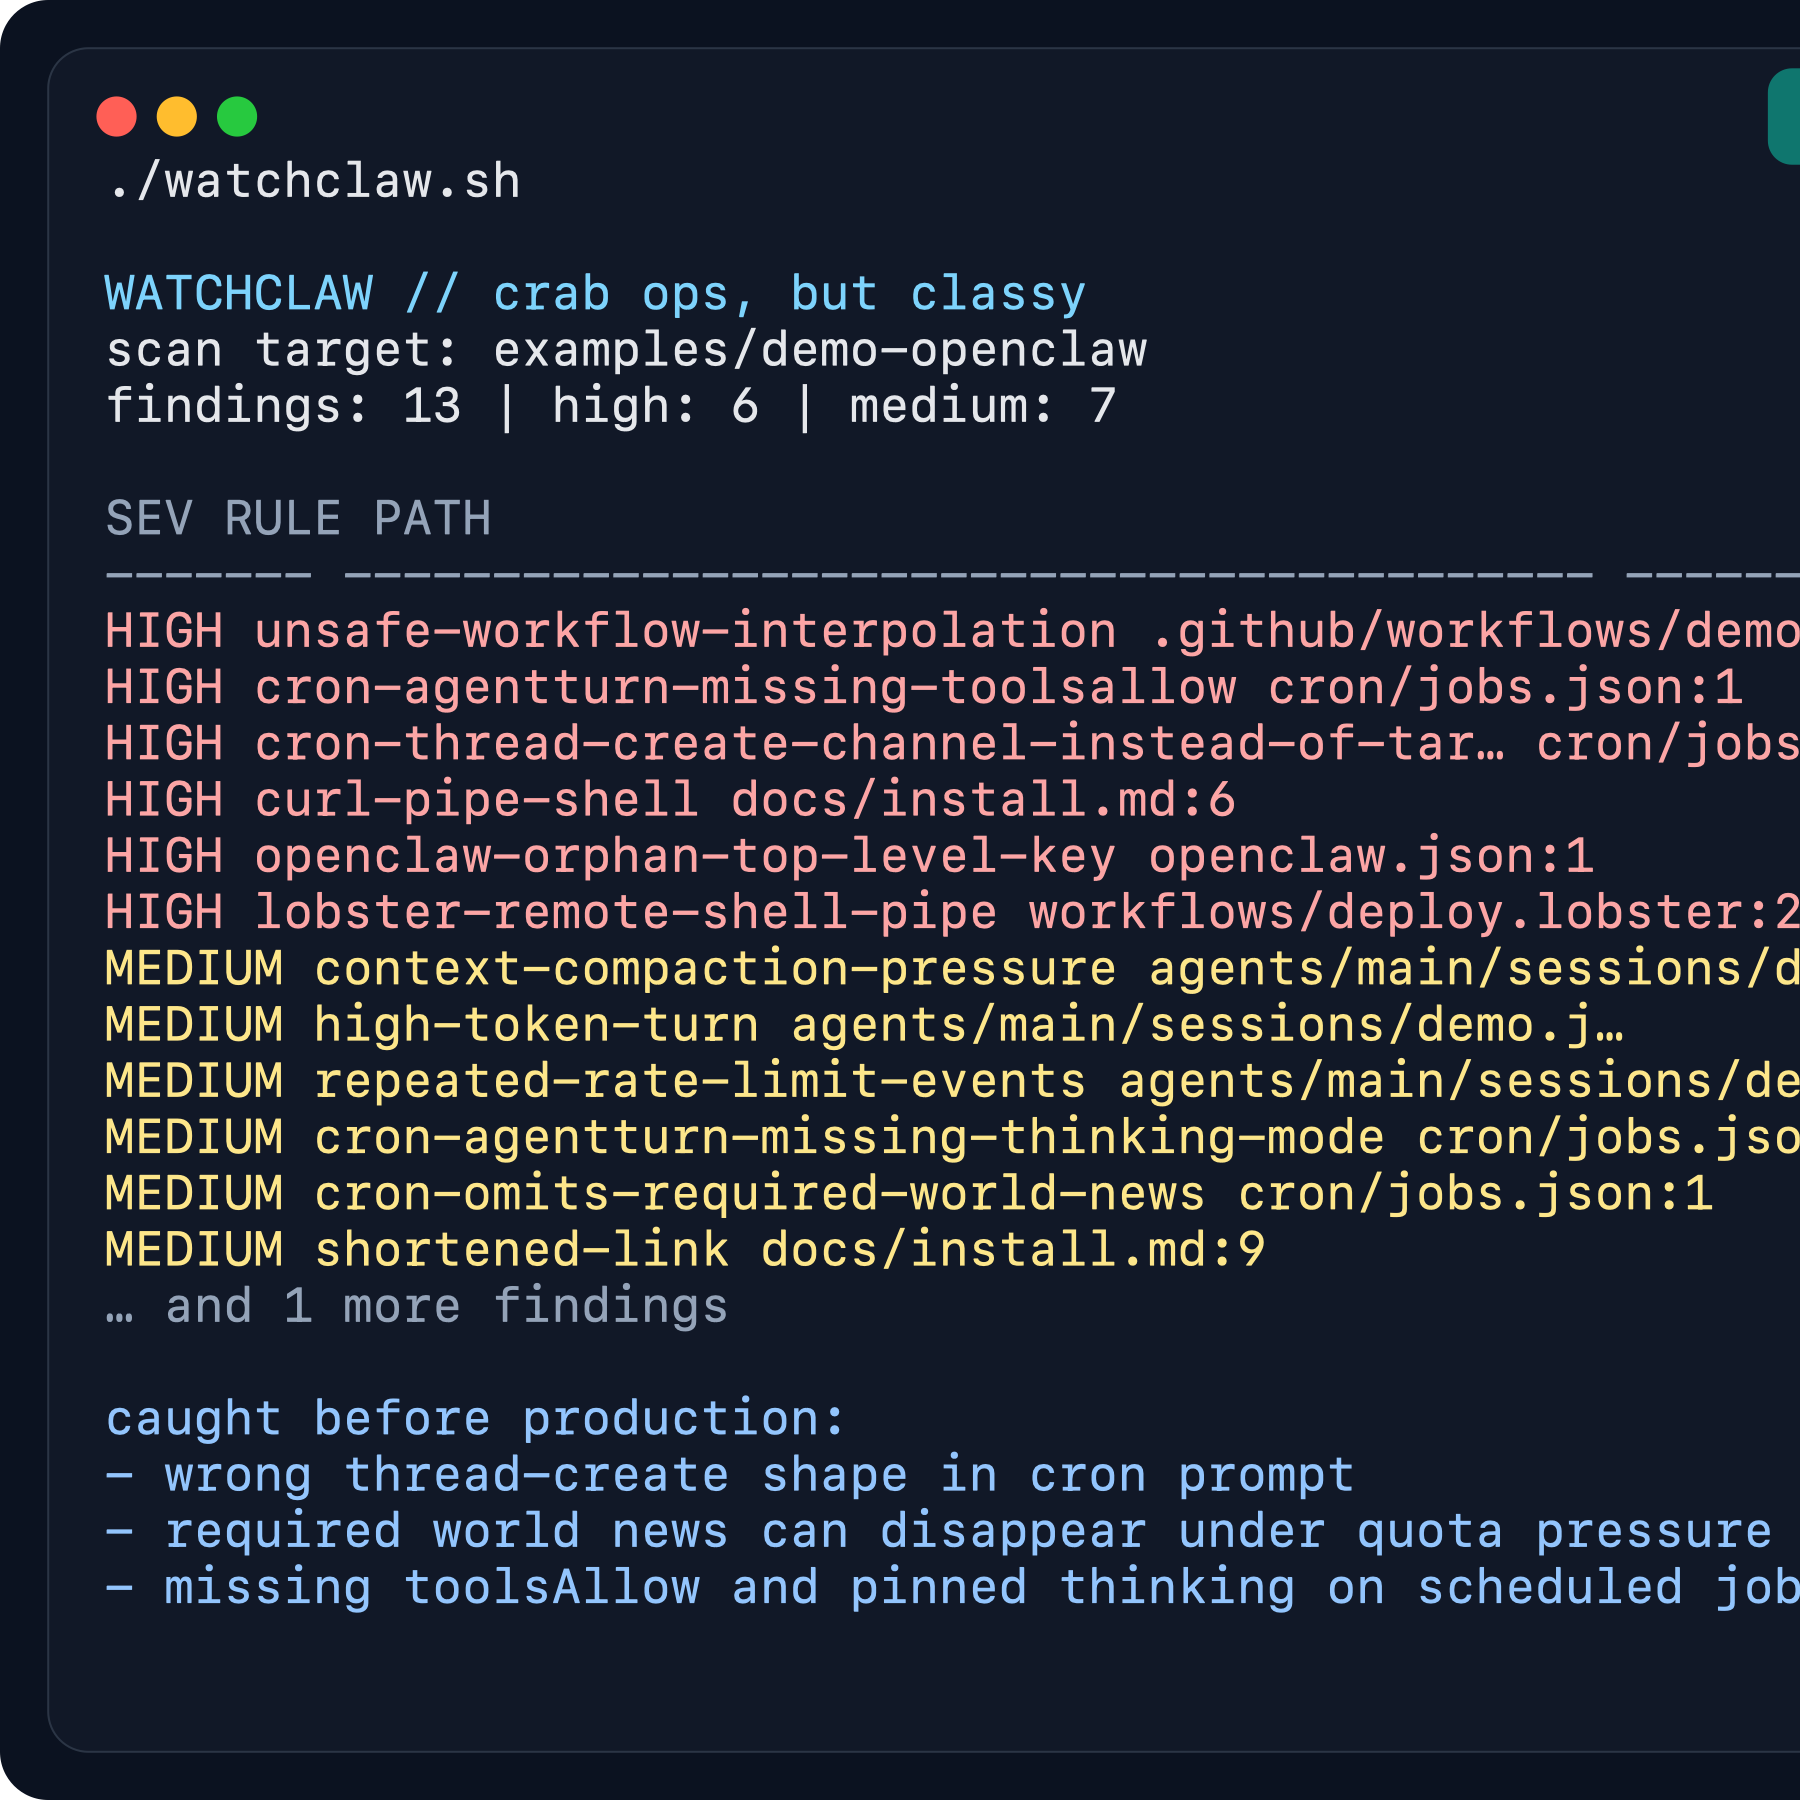
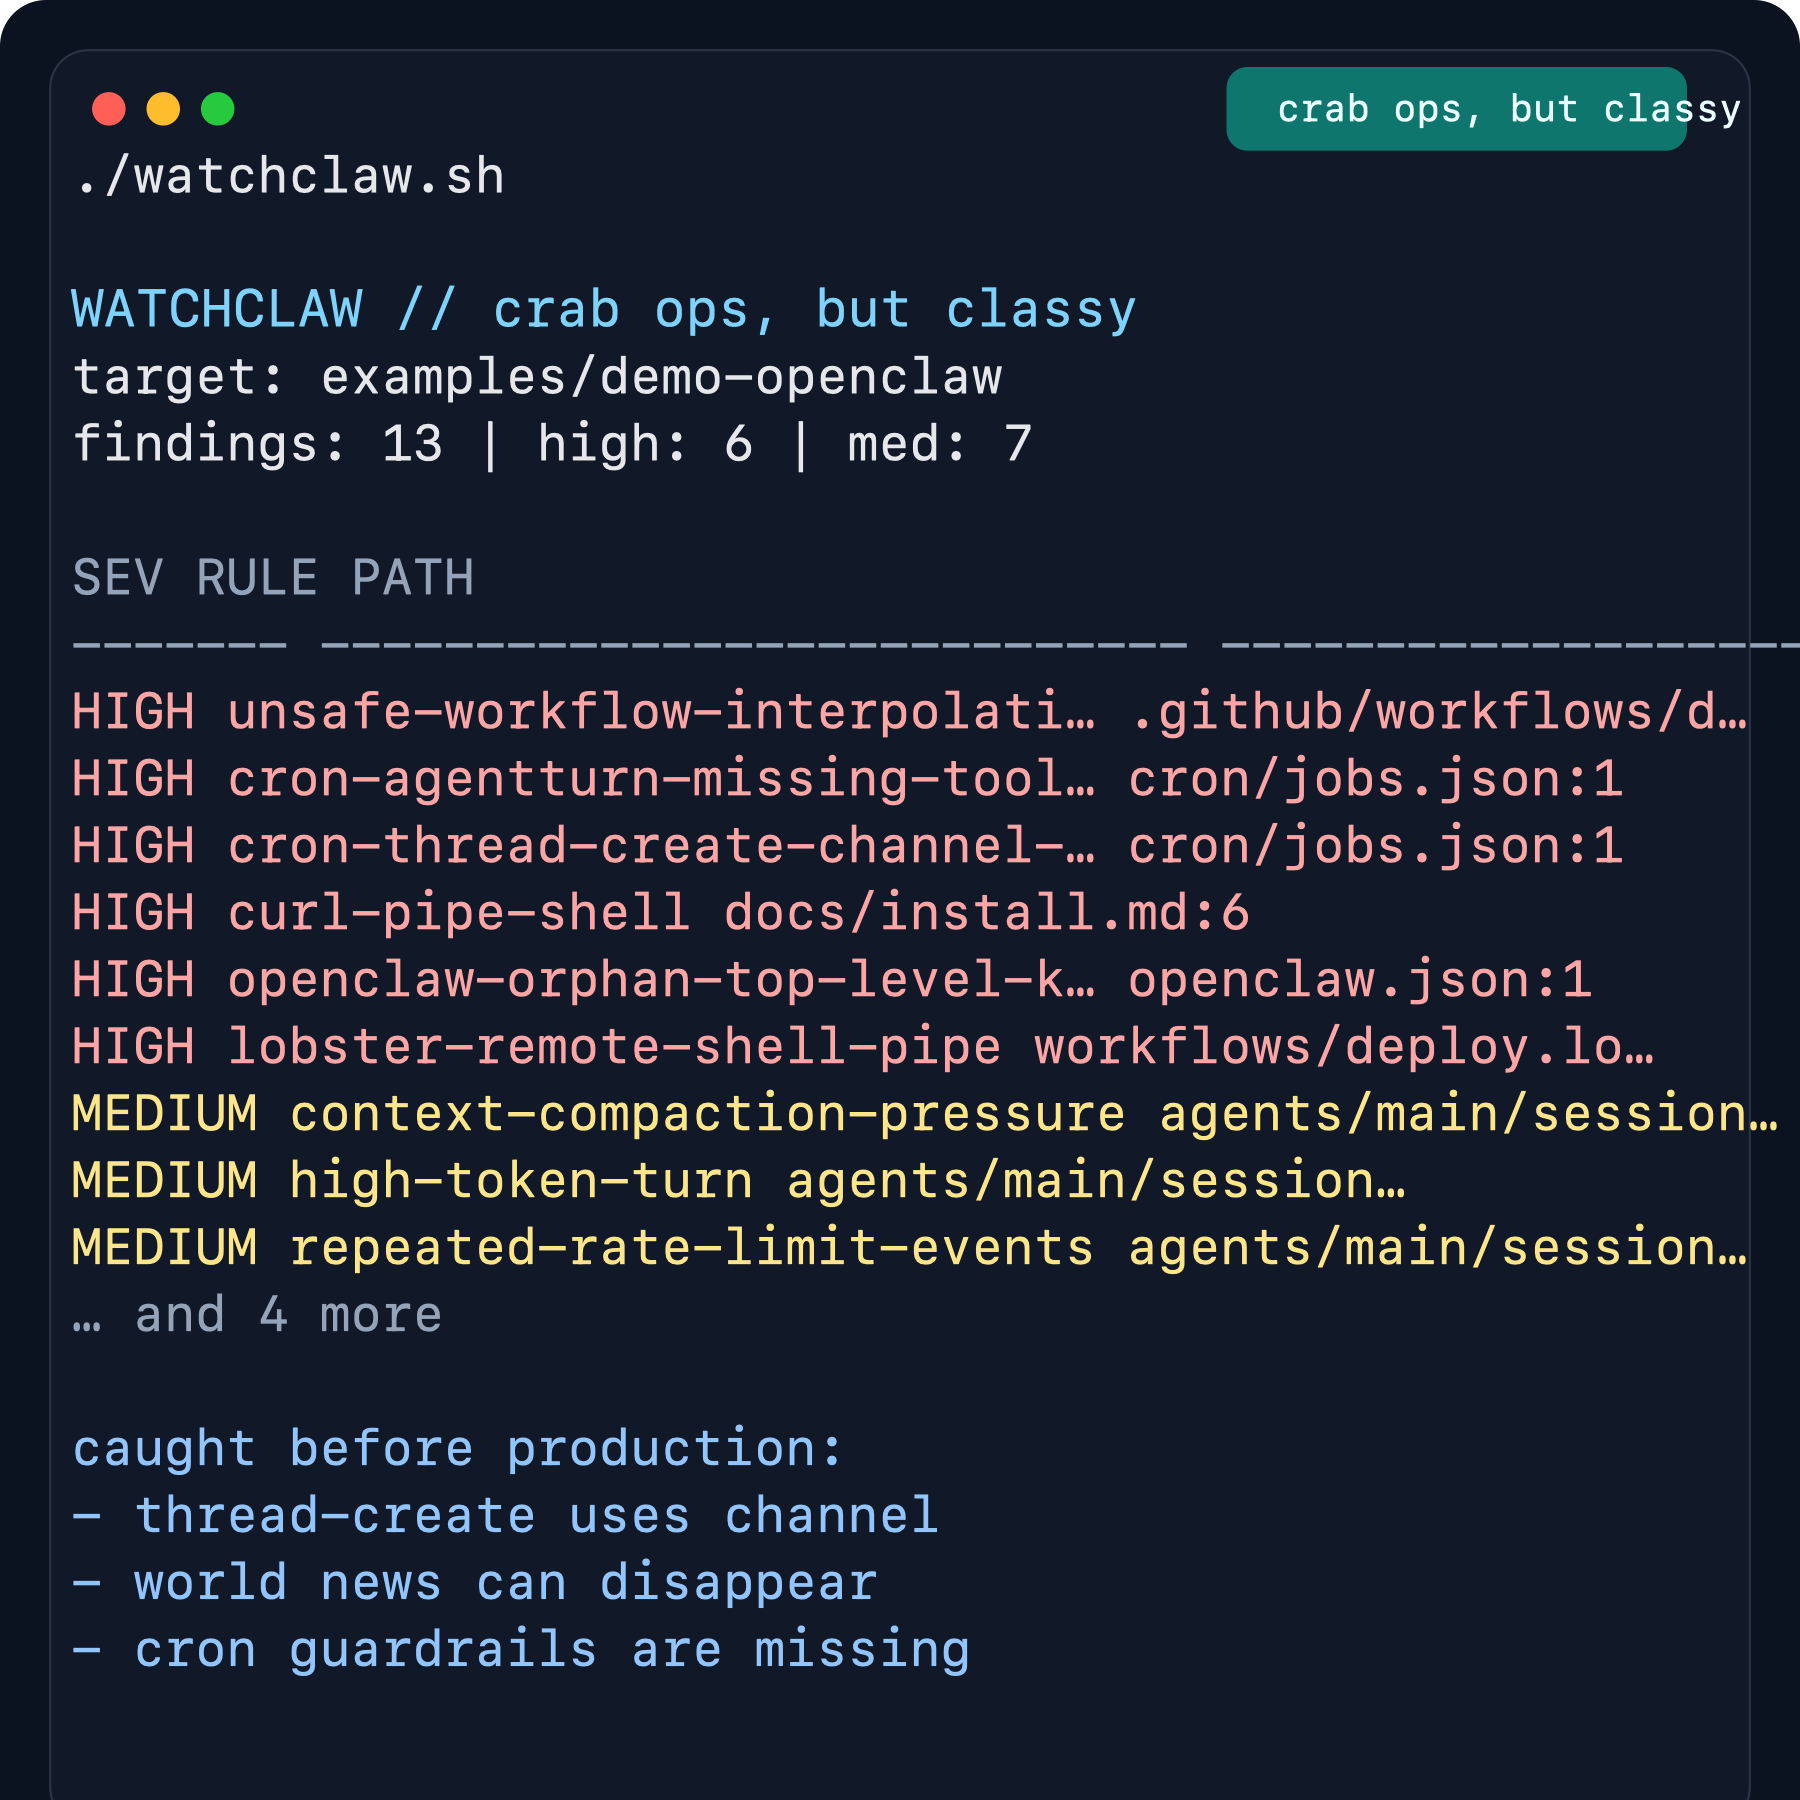
Tighten WatchClaw terminal screenshot width

diff --git a/scripts/render_demo_screenshot.py b/scripts/render_demo_screenshot.py
@@ -10,10 +10,15 @@ DEMO = ROOT / 'examples' / 'demo-openclaw'
 JSON_PATH = DEMO / 'watchclaw-findings.json'
 SVG_PATH = ROOT / 'assets' / 'demo-terminal-live.svg'
 PNG_PATH = ROOT / 'assets' / 'demo-terminal-live.png'
-MAX_ROWS = 12
+MAX_ROWS = 9
 COL1 = 7
-COL2 = 42
-COL3 = 28
+COL2 = 28
+COL3 = 20
+WIDTH = 860
+PANEL_W = 812
+LEFT = 34
+TOP = 92
+LINE_H = 32
 
 
 def ellipsize(text: str, width: int) -> str:
@@ -30,8 +35,8 @@ def build_lines() -> list[str]:
         './watchclaw.sh',
         '',
         'WATCHCLAW // crab ops, but classy',
-        f"scan target: {payload['root']}",
-        f"findings: {len(findings)}  |  high: {high}  |  medium: {medium}",
+        f"target: {payload['root']}",
+        f"findings: {len(findings)} | high: {high} | med: {medium}",
         '',
         f"{'SEV'.ljust(COL1)} {'RULE'.ljust(COL2)} {'PATH'.ljust(COL3)}",
         f"{'-'*COL1} {'-'*COL2} {'-'*COL3}",
@@ -42,46 +47,45 @@ def build_lines() -> list[str]:
         loc = ellipsize(f"{finding['path']}:{finding['line_number']}", COL3)
         lines.append(f"{sev} {rule} {loc}")
     if len(findings) > MAX_ROWS:
-        lines.append(f"… and {len(findings) - MAX_ROWS} more findings")
+        lines.append(f"… and {len(findings) - MAX_ROWS} more")
     lines.extend([
         '',
         'caught before production:',
-        '- wrong thread-create shape in cron prompt',
-        '- required world news can disappear under quota pressure',
-        '- missing toolsAllow and pinned thinking on scheduled jobs',
+        '- thread-create uses channel',
+        '- world news can disappear',
+        '- cron guardrails are missing',
     ])
     return lines
 
 
 def render_svg(lines: list[str]) -> str:
-    width = 1200
-    line_h = 28
-    top = 98
-    height = top + line_h * len(lines) + 70
+    height = TOP + LINE_H * len(lines) + 68
     text_nodes = []
     for i, line in enumerate(lines):
-        y = top + i * line_h
+        y = TOP + i * LINE_H
         fill = '#e5e7eb'
+        size = 24
         if line.startswith('WATCHCLAW //'):
             fill = '#7dd3fc'
+            size = 25
         elif line.startswith('HIGH'):
             fill = '#fca5a5'
         elif line.startswith('MEDIUM'):
             fill = '#fde68a'
-        elif line.startswith('caught before production') or line.startswith('- wrong') or line.startswith('- required') or line.startswith('- missing'):
+        elif line.startswith('caught before production') or line.startswith('- thread') or line.startswith('- world') or line.startswith('- cron'):
             fill = '#93c5fd'
-        elif line.startswith('SEV') or line.startswith('---'):
-            fill = '#94a3b8'
-        elif line.startswith('… and'):
+        elif line.startswith('SEV') or line.startswith('---') or line.startswith('… and'):
             fill = '#94a3b8'
         escaped = line.replace('&', '&amp;').replace('<', '&lt;').replace('>', '&gt;')
-        text_nodes.append(f'<text x="52" y="{y}" fill="{fill}" font-family="ui-monospace, SFMono-Regular, Menlo, Consolas, monospace" font-size="24">{escaped}</text>')
-    return f'''<svg xmlns="http://www.w3.org/2000/svg" width="{width}" height="{height}" viewBox="0 0 {width} {height}" role="img" aria-label="WatchClaw terminal screenshot">
-  <rect width="{width}" height="{height}" fill="#0b1220" rx="24"/>
-  <rect x="24" y="24" width="1152" height="{height-48}" fill="#111827" stroke="#2b3545" rx="20"/>
-  <circle cx="58" cy="58" r="10" fill="#ff5f56"/><circle cx="88" cy="58" r="10" fill="#ffbd2e"/><circle cx="118" cy="58" r="10" fill="#27c93f"/>
-  <rect x="880" y="34" width="246" height="48" fill="#0f766e" rx="12"/>
-  <text x="912" y="65" fill="#ecfeff" font-family="ui-monospace, SFMono-Regular, Menlo, Consolas, monospace" font-size="22">crab ops, but classy</text>
+        text_nodes.append(
+            f'<text x="{LEFT}" y="{y}" fill="{fill}" font-family="ui-monospace, SFMono-Regular, Menlo, Consolas, monospace" font-size="{size}">{escaped}</text>'
+        )
+    return f'''<svg xmlns="http://www.w3.org/2000/svg" width="{WIDTH}" height="{height}" viewBox="0 0 {WIDTH} {height}" role="img" aria-label="WatchClaw terminal screenshot">
+  <rect width="{WIDTH}" height="{height}" fill="#0b1220" rx="22"/>
+  <rect x="24" y="24" width="{PANEL_W}" height="{height-48}" fill="#111827" stroke="#2b3545" rx="18"/>
+  <circle cx="52" cy="52" r="8" fill="#ff5f56"/><circle cx="78" cy="52" r="8" fill="#ffbd2e"/><circle cx="104" cy="52" r="8" fill="#27c93f"/>
+  <rect x="586" y="32" width="220" height="40" fill="#0f766e" rx="10"/>
+  <text x="610" y="58" fill="#ecfeff" font-family="ui-monospace, SFMono-Regular, Menlo, Consolas, monospace" font-size="18">crab ops, but classy</text>
   {''.join(text_nodes)}
 </svg>'''
 
@@ -89,7 +93,12 @@ def render_svg(lines: list[str]) -> str:
 def main() -> int:
     lines = build_lines()
     SVG_PATH.write_text(render_svg(lines), encoding='utf-8')
-    subprocess.run(['qlmanage', '-t', '-s', '1800', '-o', '/tmp/watchclaw-previews', str(SVG_PATH)], check=True, stdout=subprocess.DEVNULL, stderr=subprocess.DEVNULL)
+    subprocess.run(
+        ['qlmanage', '-t', '-s', '1800', '-o', '/tmp/watchclaw-previews', str(SVG_PATH)],
+        check=True,
+        stdout=subprocess.DEVNULL,
+        stderr=subprocess.DEVNULL,
+    )
     preview = Path('/tmp/watchclaw-previews') / f'{SVG_PATH.name}.png'
     PNG_PATH.write_bytes(preview.read_bytes())
     print(PNG_PATH)
